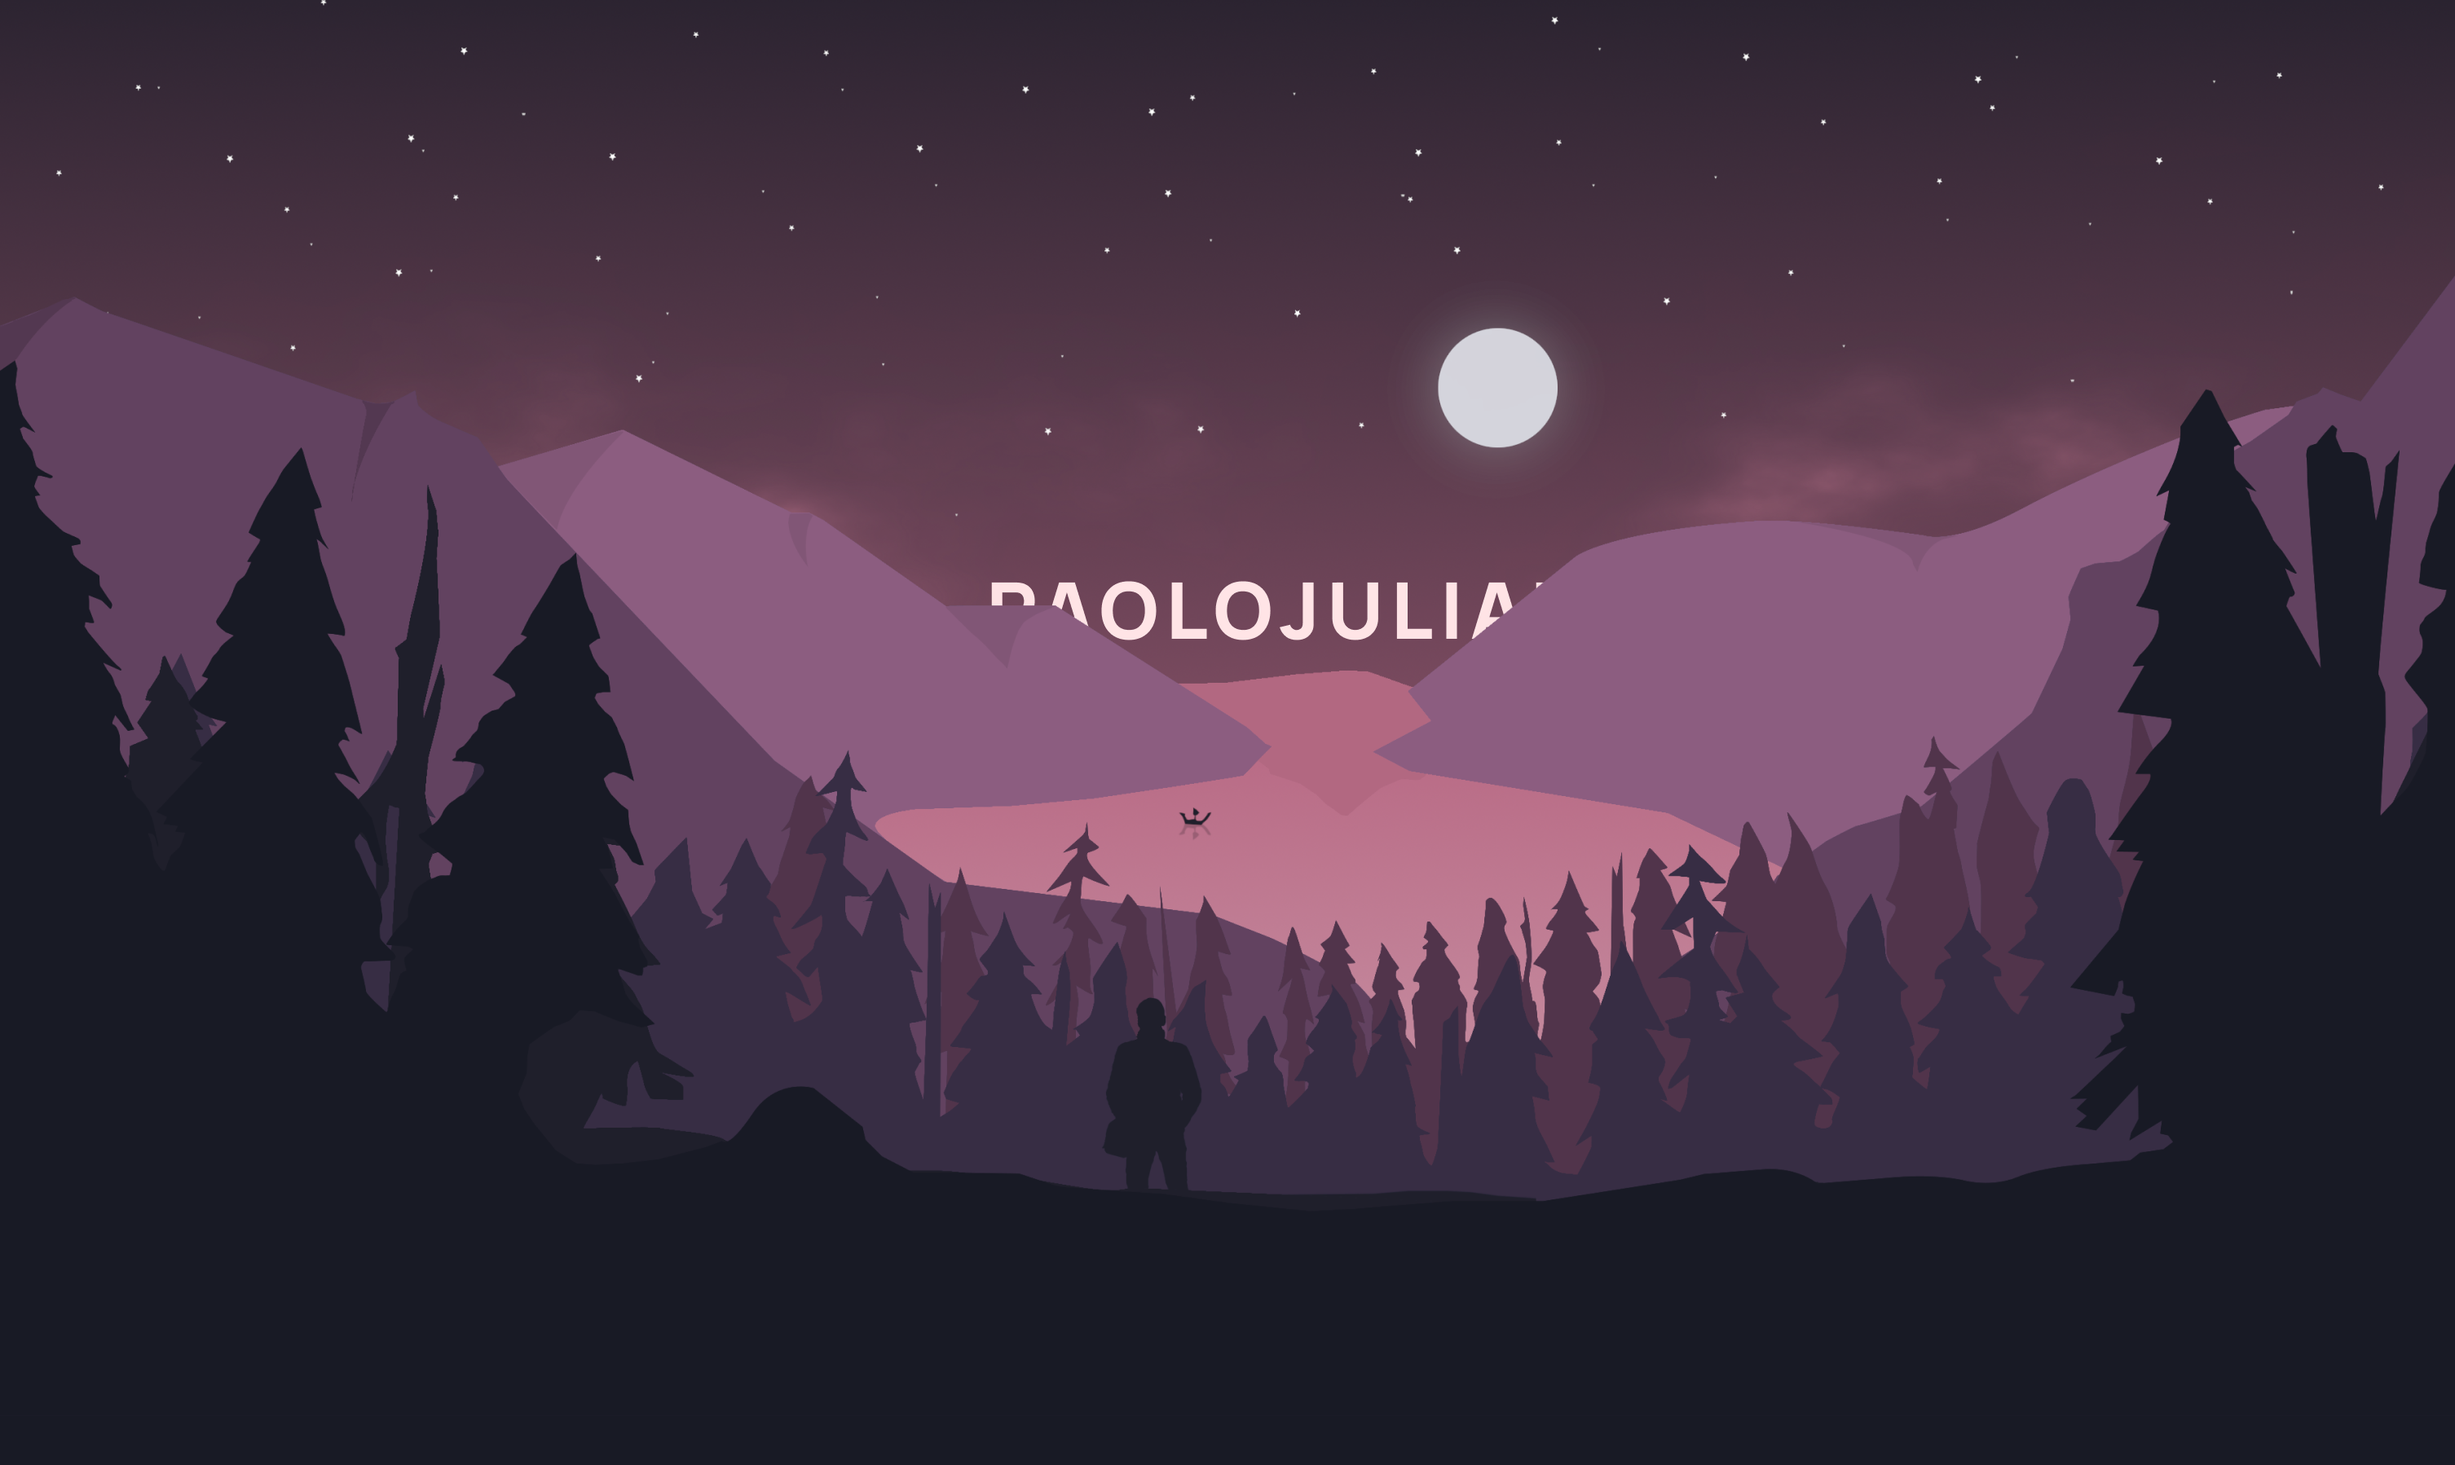
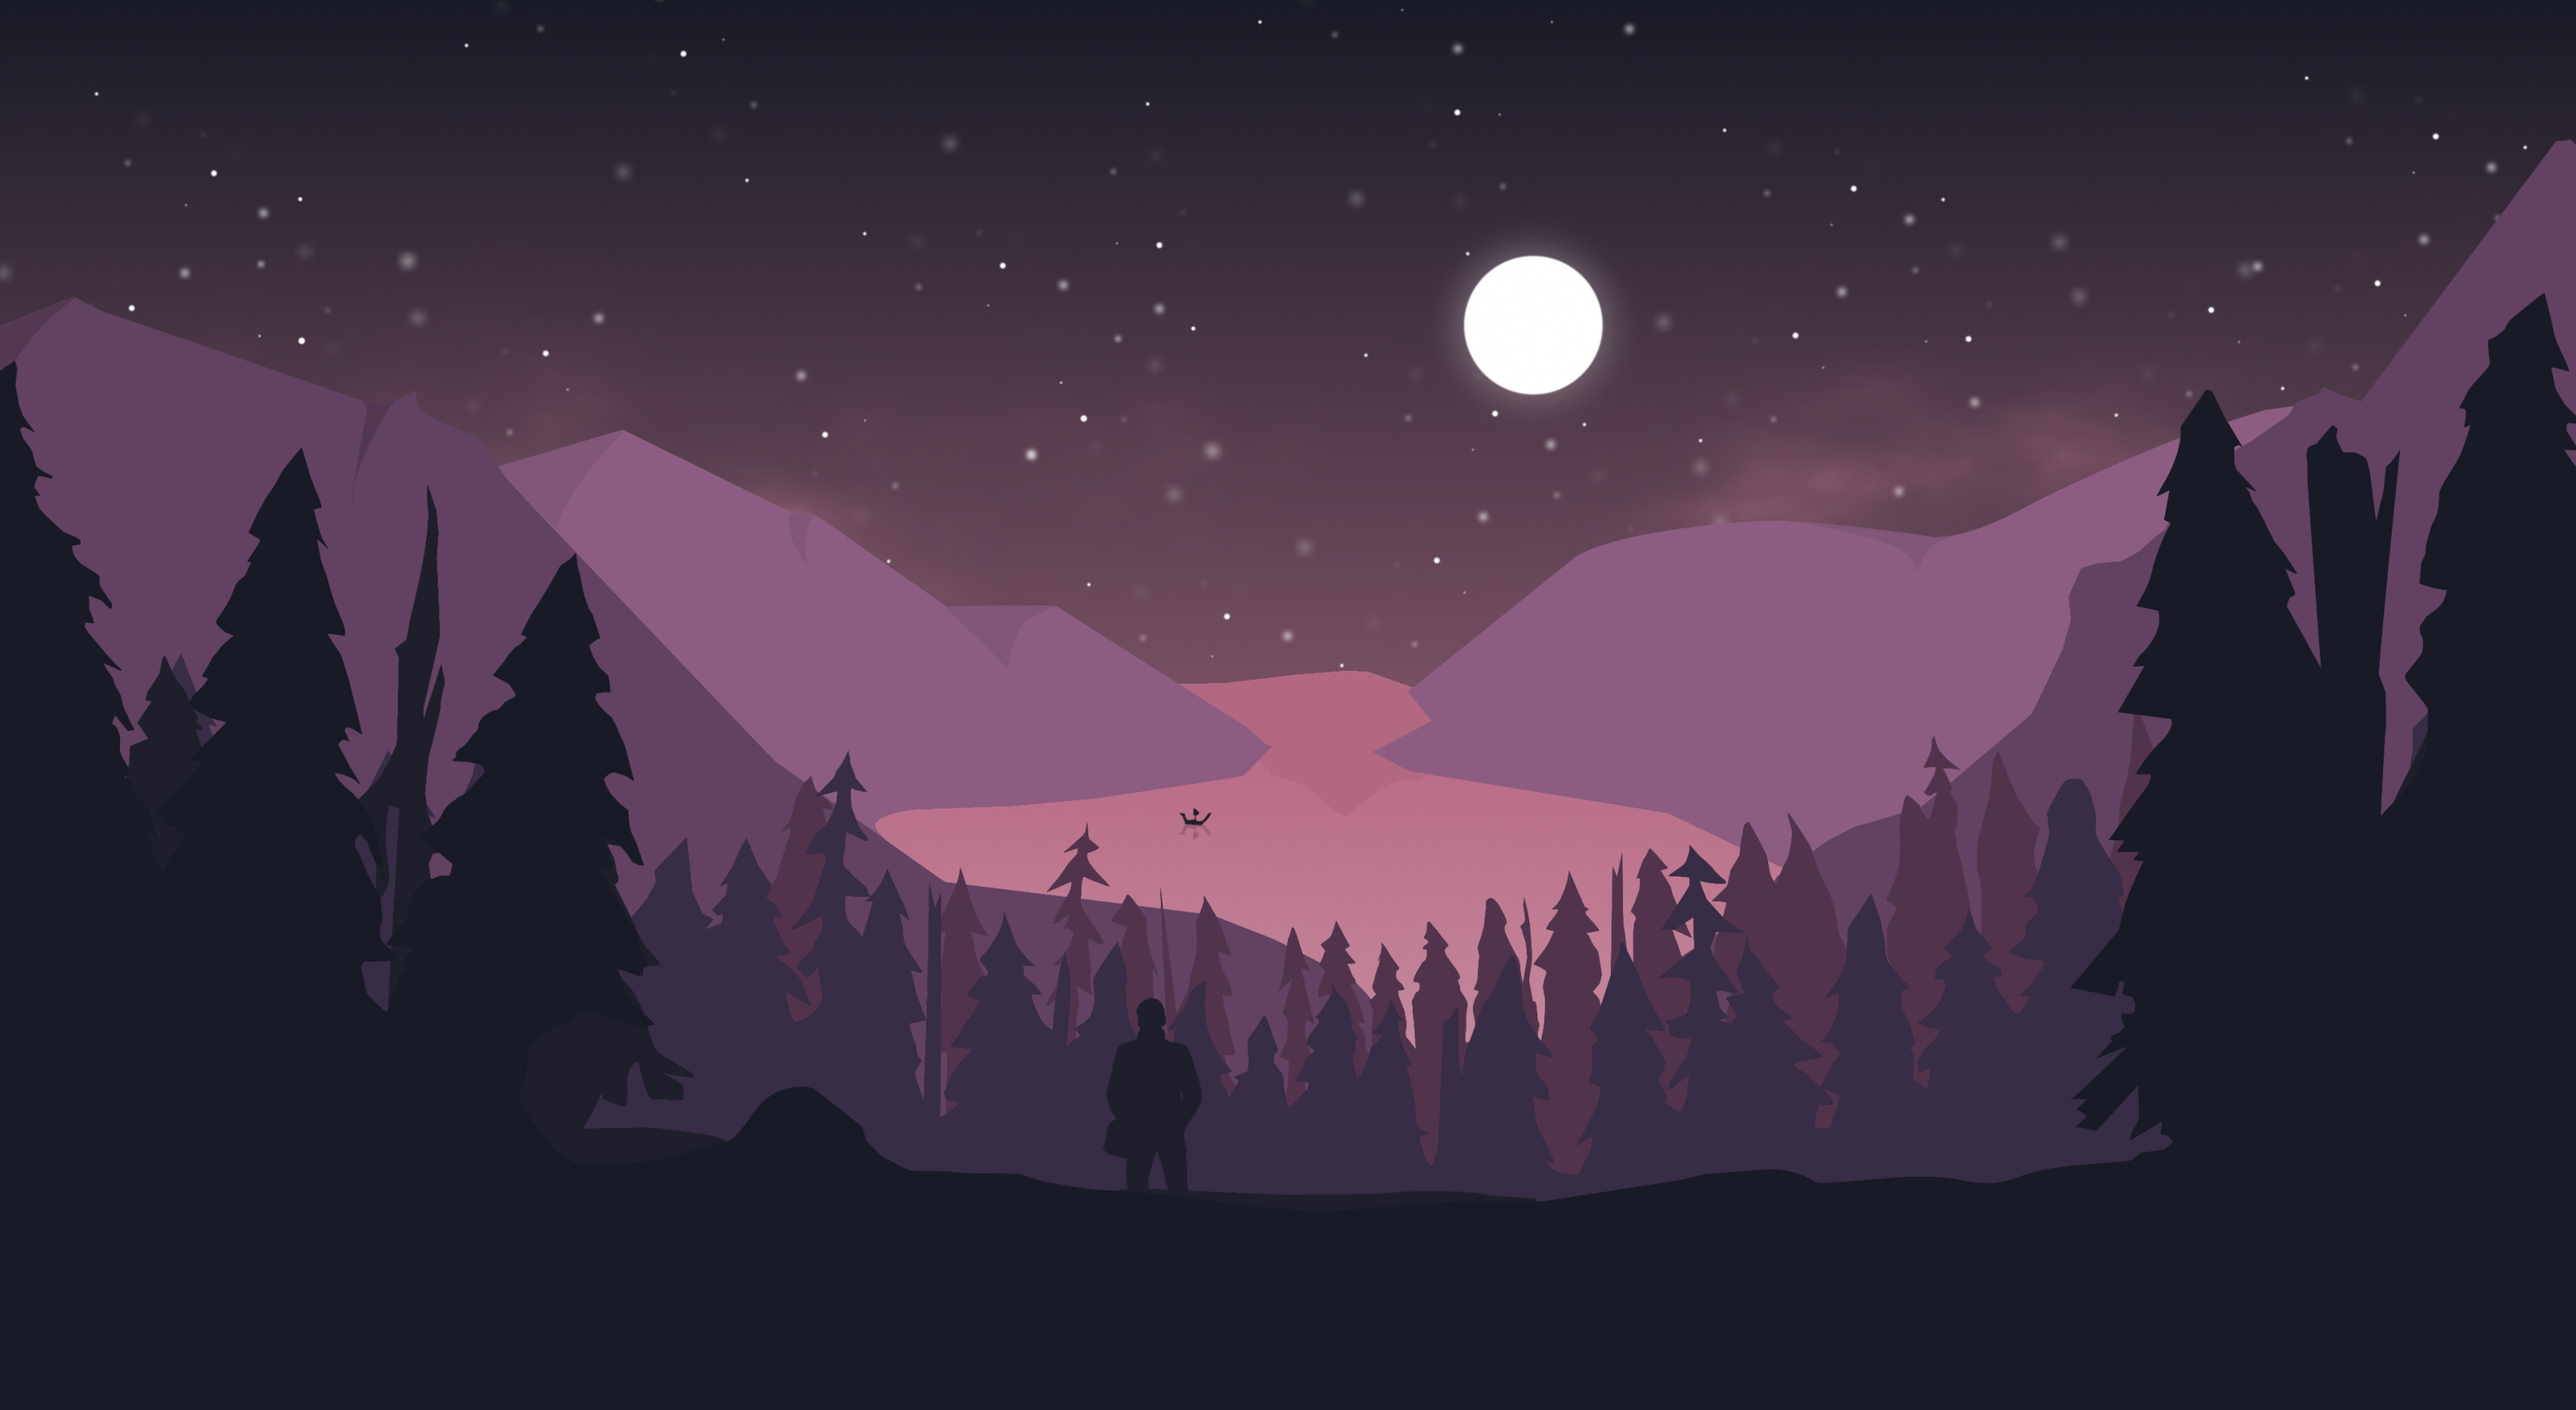
UI: Add Navbar and fix font

diff --git a/src/features/portfolio/components/Sections/Hero.tsx b/src/features/portfolio/components/Sections/Hero.tsx
@@ -1,5 +1,7 @@
-import Image from "next/image";
-import React, { FunctionComponent } from "react";
+import Row from 'layouts/Row';
+import Stack from 'layouts/Stack';
+import Image from 'next/image';
+import React, { FunctionComponent } from 'react';
 
 export type HeroProps = {
   // No Props
@@ -7,7 +9,7 @@ export type HeroProps = {
 
 const Hero: FunctionComponent<HeroProps> = (props) => {
   return (
-    <div className="w-full h-full overflow-hidden relative bg-[#181a25]">
+    <div className='w-full h-full overflow-hidden relative bg-[#181a25]'>
       <Image
         width={3012}
         height={1798}
@@ -15,9 +17,28 @@ const Hero: FunctionComponent<HeroProps> = (props) => {
         alt='Background'
         className='border border-[#181a25]'
         style={{
-          objectFit: "contain",
+          objectFit: 'contain',
         }}
       />
+      {/* Navbar */}
+      <Stack className='items-center justify-center sticky top-0 inset-x-0'>
+        <div className='mx-auto max-w-screen-lg w-full'>
+          <Row className='justify-between items-center w-full'>
+            <h1 className='text-white font-extrabold text-2xl'>{`<PaoloJulian />`}</h1>
+            <Row className='space-x-4'>
+              <ul className='text-cyan-500 font-bold text-base'>Home</ul>
+              <ul className='text-gray-500 font-medium text-base'>#About</ul>
+              <ul className='text-gray-500 font-medium text-base'>
+                #Portfolio
+              </ul>
+              <ul className='text-gray-500 font-medium text-base'>#Contact</ul>
+              <ul className='text-gray-500 font-medium text-base'>
+                #Components
+              </ul>
+            </Row>
+          </Row>
+        </div>
+      </Stack>
     </div>
   );
 };

diff --git a/src/pages/_app.tsx b/src/pages/_app.tsx
@@ -6,7 +6,7 @@ import { getTheme } from '../lib/helpers';
 import '../styles/index.css';
 import '../styles/prism/prism-one-dark.css';
 
-const Font = Manrope({ subsets: ['latin'] });
+const Font = Manrope();
 
 export default function MyApp({ Component, pageProps }: AppProps) {
   useEffect(() => {

diff --git a/tailwind.config.js b/tailwind.config.js
@@ -29,7 +29,6 @@ module.exports = {
         'accent-2': '#EAEAEA',
         'accent-7': '#333',
         success: '#0070f3',
-        cyan: '#79FFE1',
       },
       backgroundImage: {
         'pink-linear':

diff --git a/src/styles/index.css b/src/styles/index.css
@@ -5,7 +5,7 @@
 @tailwind utilities;
 
 html {
-  font-family: var(--font-family), Manrope, 'sans-serif';
+  font-family: 'Manrope', 'sans-serif';
   @apply dark:text-white;
   overflow-y: hidden;
 }
